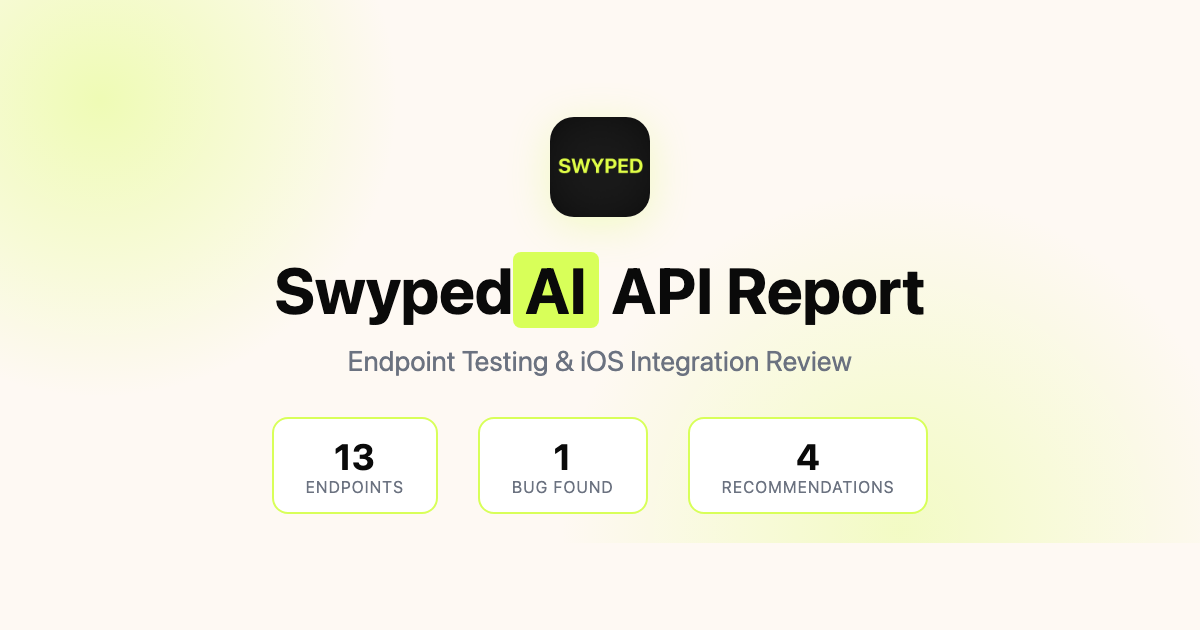
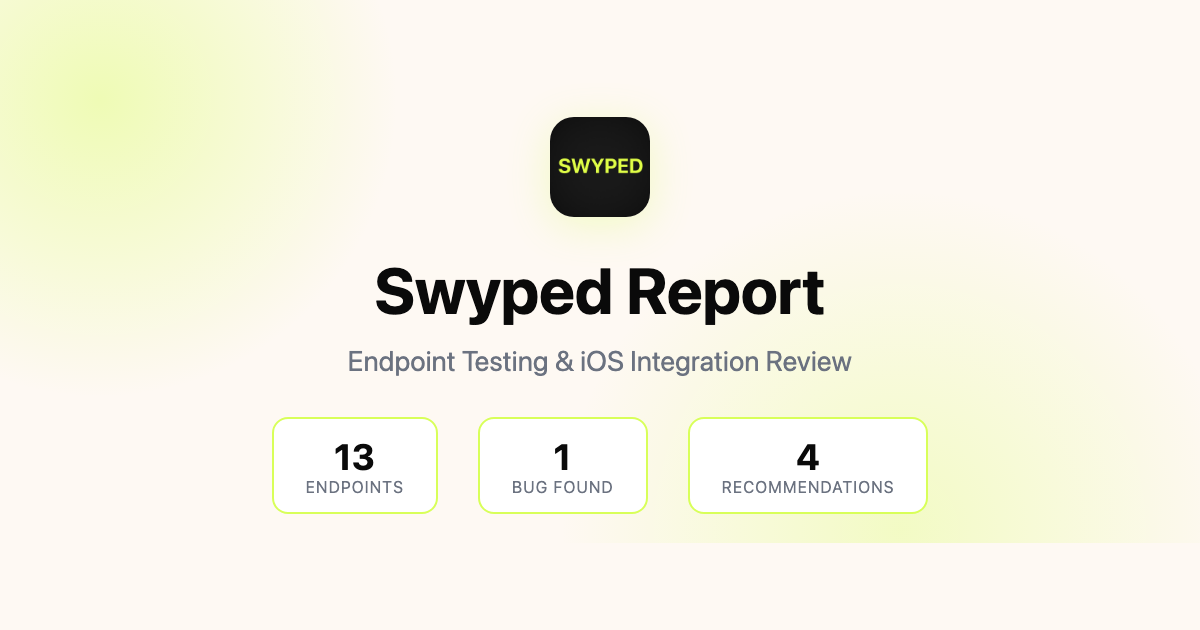
fix: Simplify OG title to 'Swyped Report'

Changed region(s): [[0.2158, 0.3921, 0.7708, 0.5429]]

diff --git a/work/swyped/reports/og-image.html b/work/swyped/reports/og-image.html
@@ -98,7 +98,7 @@
     <div class="glow-2"></div>
     <div class="content">
         <img src="swyped_logo.png" class="logo" alt="">
-        <h1>Swyped<span>AI</span> API Report</h1>
+        <h1>Swyped Report</h1>
         <p class="subtitle">Endpoint Testing & iOS Integration Review</p>
         <div class="stats">
             <div class="stat">
